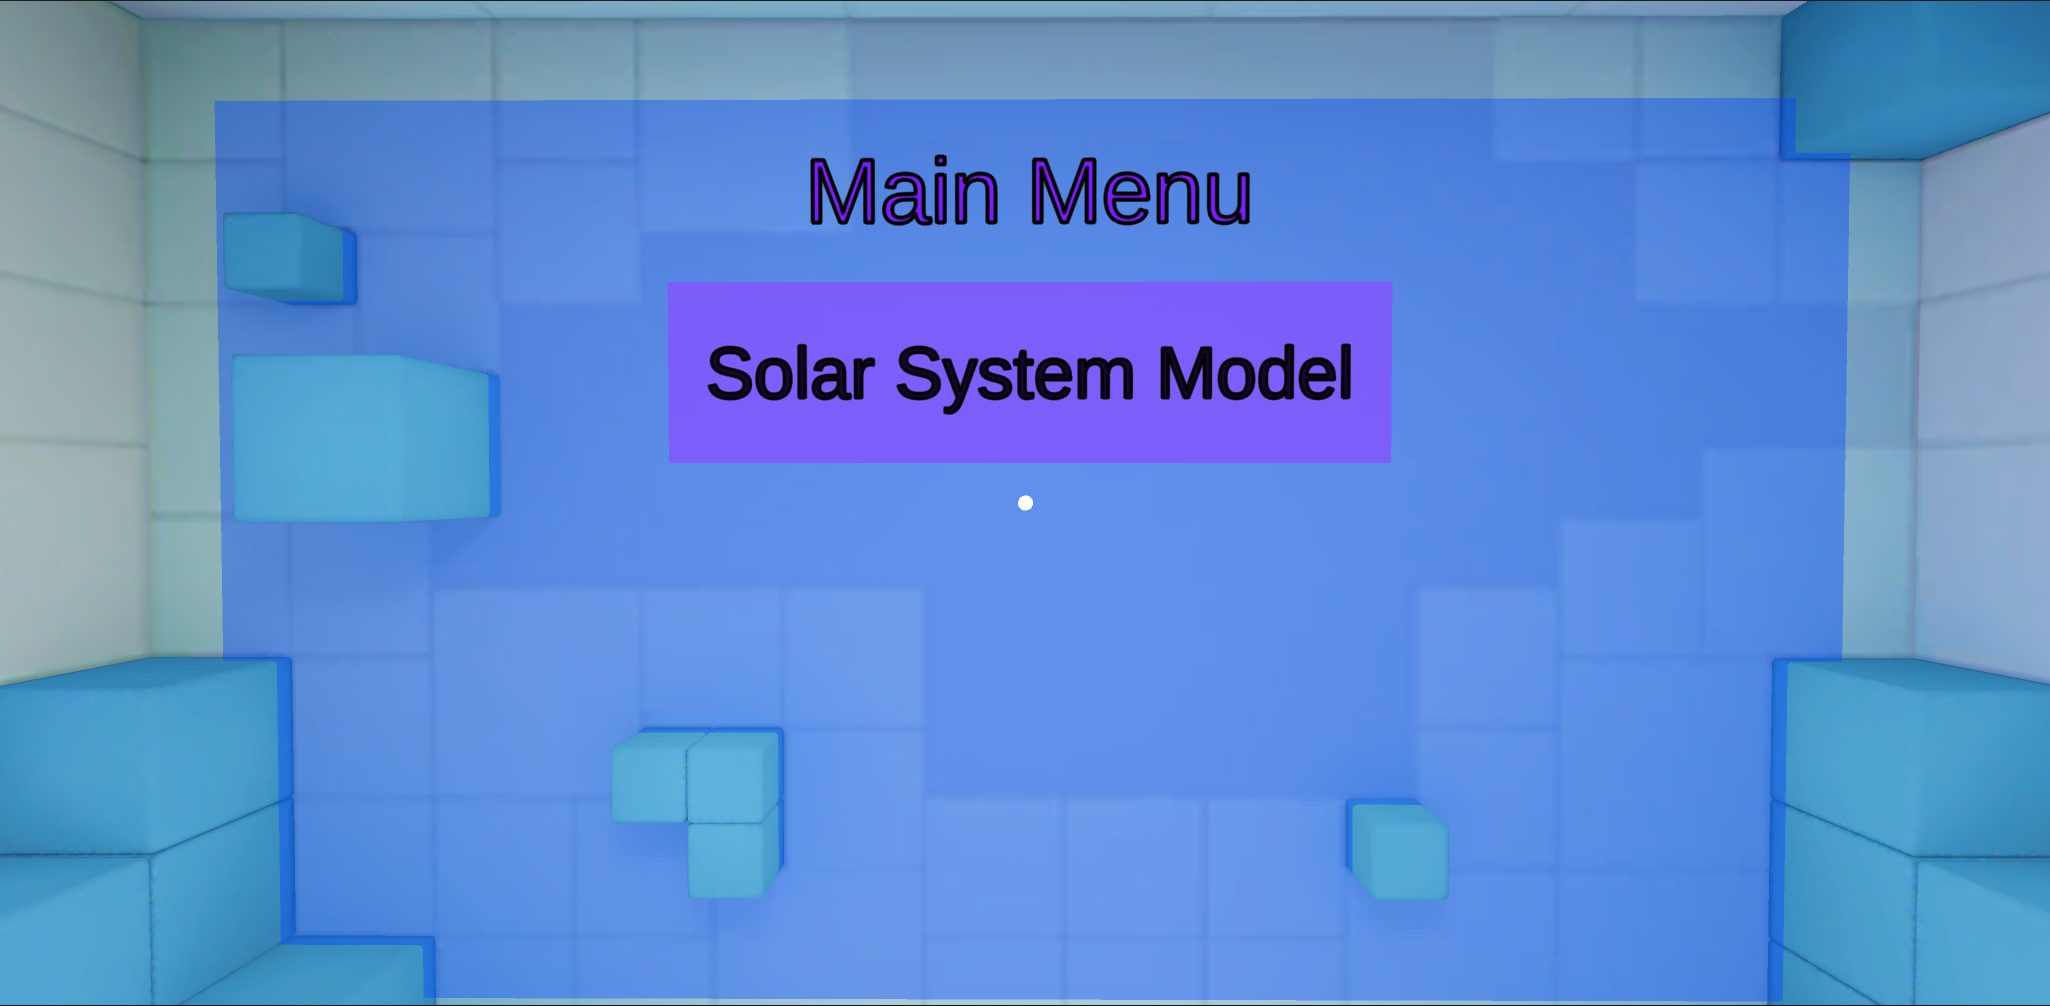
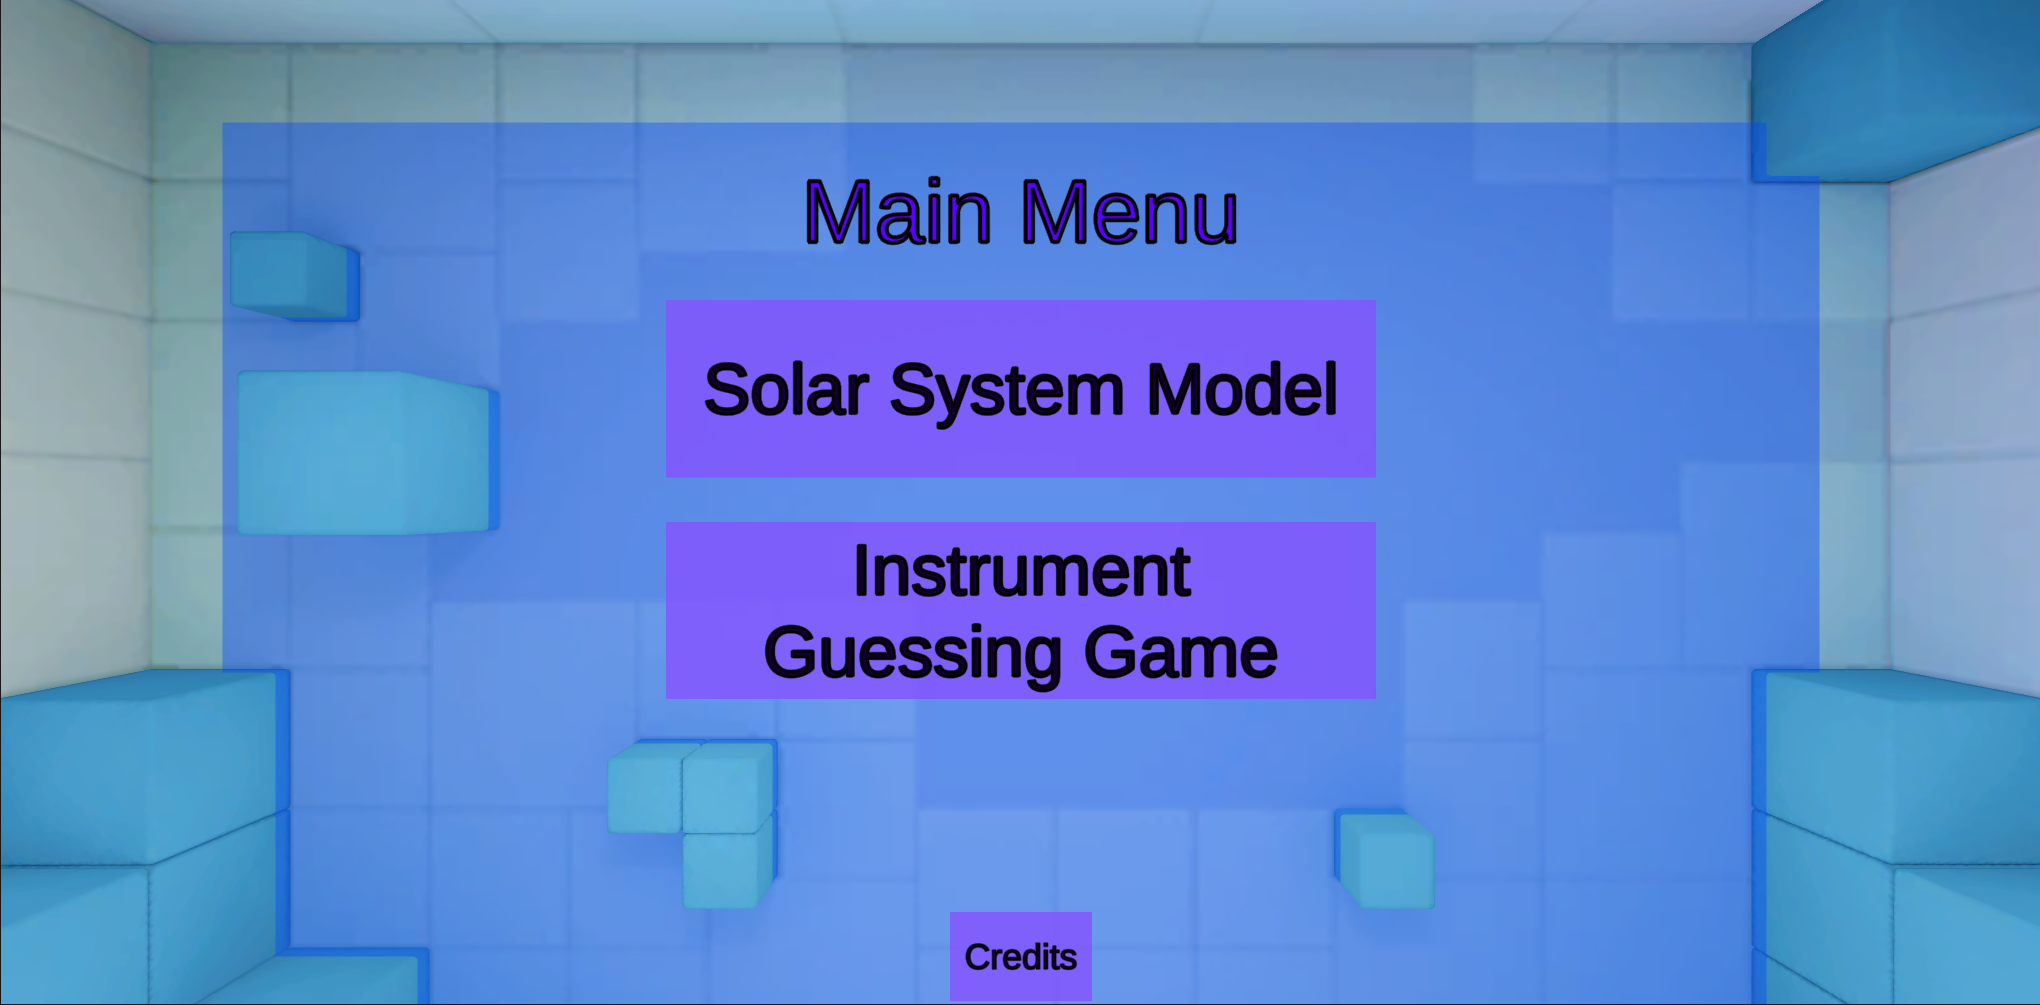
Fixed Directions markdown file and added music pics

diff --git a/Documentation/Educator/Markdown Files/Directions.md b/Documentation/Educator/Markdown Files/Directions.md
@@ -7,16 +7,16 @@ Educational experiences included:
 - Space - Shows the solar system with all the celestial bodies including their rotations, revolutions, and facts about each.
 
 ---
-### Main Menu:
+## Main Menu:
 
 A place where the student is first introduced to the world of VR. It is a little box with some 3D assets and nice visual colors. In this room there is a selection board for the different experiences the students have available to them.
+![Main_Menu](Screenshots/Main_Menu.png "Main Menu")
 
 --- 
 
-### Space:
+## Space:
 A place where the student is placed above the solar system. They can view the solar system as the celestial bodies rotate on their axis and the planets revolve around the sun. Each planet is selectable from the point of view of the student. Selecting a celestial body will take them to a singled out view where they get a close up with that celestial body. There is a facts board around the student where they can read interesting facts and information regarding each body relating to the SOL and some extra cool facts thrown in.
 
-![Main_Menu](Screenshots/Main_Menu.png "Main Menu")
 ![Space](Screenshots/Space.png "Space Scene")
 ![Earth](Screenshots/Earth.png "Individual Planet Earth")
 
@@ -27,21 +27,20 @@ There is a back button to return from the individual view of any one celestial b
 ![Return_To_Solar_System_Button](Screenshots/Return_Button.png "Return To Solar System")
 
 ---
+## Music:
+A place where the student is placed in an auditorium, able to view and learn about different musical instruments. They are auditorially quizzed for fun on the different instruments giving students the opportunity to hear the instruments in a way where they otherwise wouldn't be able to. There is also a screen where the students can individually inspect each of the instruments and read facts about them.
+
+There is always a back button for each scene taking the student to the previous scene. This allows the student to exit at any time.
+
+![Music_Main_Menu](Screenshots/Music_Main_Menu.png "Main menu for music")
+![Music_Auditorium](Screenshots/Music_Auditorium.png "Auditorium")
+![Music_Quiz](Screenshots/Music_Quiz.png "Quiz view")
+![Music_Instrument_View](Screenshots/Music_Instrument_View.png "Instrument view")
+
+---
 
 ## Tools and hardware:
 - Windows Operating system
 - Android or iOS phone
 - [Google Cardboard](https://arvr.google.com/cardboard/get-cardboard/) or similar device
     - Preferred a device with a physical lever that touches the phone screen.
-
-## How to install:
-- Android:
-    1. Plug android phone into windows device through USB.
-    2. Open android phone with File Explorer.
-    3. Move to Downloads directory of android device.
-    4. Copy APK file into Downloads directory.
-    5. Inside the android phone, navigate to the Downloads directory and install APK file.
-    6. Find on home screen or app drawer and play.
-
-- Apple:
-    - TODO
